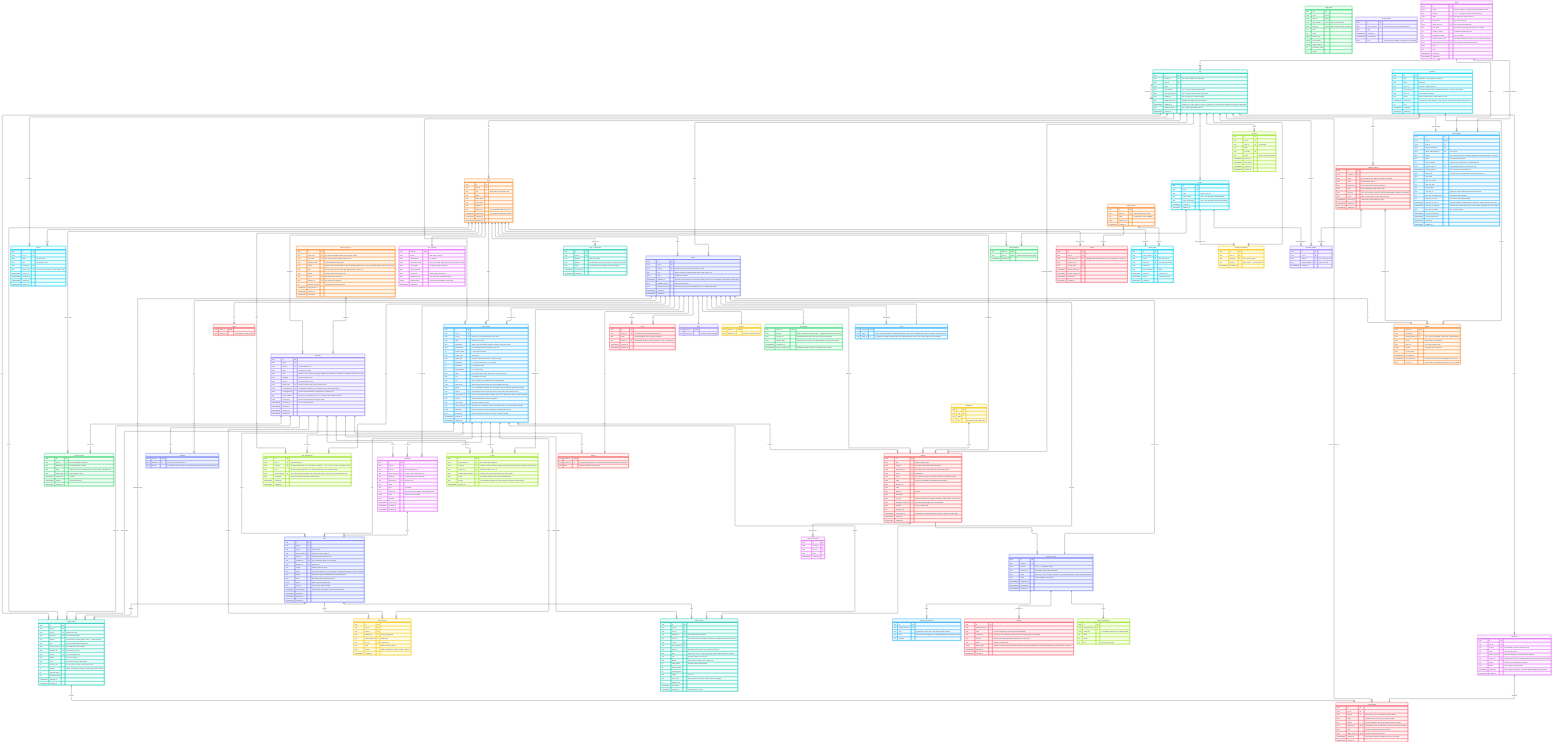
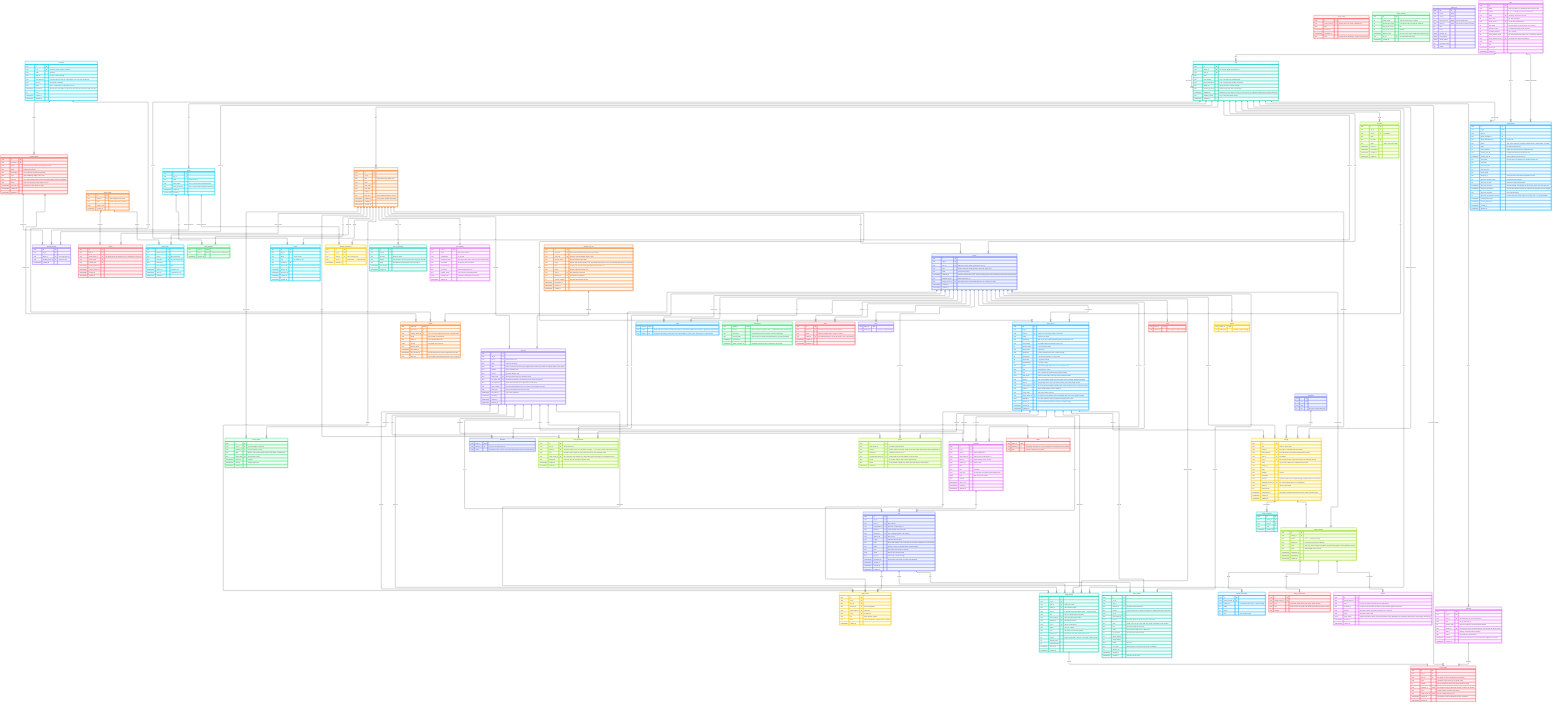
Billing in credits: one credit is $0.02 (above Pipedream's $0.012), top-ups turn into credits at the price that day, bought credits never expire, runs cost nothing, auto top-up's monthly cap is optional; first plan numbers (credits per seat, machines, extra machines); every number in the database (p

diff --git a/server/docs/architecture.md b/server/docs/architecture.md
@@ -247,7 +247,7 @@ Decided 2026-10-11. Two UIs, split by isolation:
 - **Models:** the catalog with provider logos, add a model with its key, whether the key works. A key is typed into a card or a page and posted straight from it to the API with a short-lived ticket; it never passes through a chat. Tested 2026-10-11 in Claude: the card's ticket rides in the tool result's `_meta`, which the model never sees, and the card posts from its own origin (`*.claudemcpcontent.com`).
 - **Billing** (org admins): the plan and changing it (preview, confirm, wait), the card on file (Stripe's own form), adding funds (one-off, $5 to $10,000), auto top-up, invoices (Stripe's portal).
 - **Members and invites** (org admins).
-- **Navigation** (decided 2026-10-11): the top nav is Machines, Super powers, Powers and Marketplace; **Org** for org admins (Members, Teams, Models, Connections, Review, Billing); **Glyphh admin** for super admins (Orgs, Models, Marketplace, Plans).
+- **Navigation** (decided 2026-10-11): the top nav is Machines, Super powers, Powers and Marketplace; **Org** for org admins (Members, Teams, Models, Connections, Review, Billing); **Glyphh admin** for super admins (Orgs, Models, Marketplace, Plans: each plan's versions and the billing settings).
 
 **rrotor's UI** stays on the machine: its app server serves Glyphh's live view and each super power's screens. The platform and the cards reach it through the relay. A live card in Claude draws its own view from a stream off the machine rather than framing rrotor's page (a page framed inside a card came up blank, tested 2026-10-11), or opens rrotor's UI in a tab.
 
@@ -399,7 +399,7 @@ erDiagram
         int price_cents "per seat, per month"
         text stripe_price_id UK "null for Free and Enterprise"
         int max_seats "the most seats an org may have; null = no limit"
-        int monthly_credits "included each billing period"
+        int monthly_credits "included each billing period, per seat"
         int included_machines "null = no limit"
         int extra_machine_cents "per extra machine per month; null = no extras on this plan"
         text stripe_machine_price_id UK "the Stripe price extras are billed on"
@@ -697,6 +697,7 @@ erDiagram
         timestamptz auto_top_up_last_at "the last attempt: one attempt per 10 minutes, taken under the org's lock"
         timestamptz auto_top_up_failed_at "the card was refused: auto top-up is off until an org admin turns it on again"
         text auto_top_up_failure "why, as Stripe said it"
+        int auto_top_up_monthly_cap_cents "the most auto top-up may charge in a period; null = no cap (the default)"
         timestamptz current_period_start
         timestamptz current_period_end
         timestamptz created_at
@@ -733,6 +734,17 @@ erDiagram
         int request_bytes
         int response_bytes
         timestamptz started_at
+        timestamptz created_at
+    }
+
+    billing_settings {
+        uuid id PK
+        int credit_cents "what one credit costs: 2 = $0.02"
+        int seconds_per_credit "a connection call's seconds per credit: 30"
+        int top_up_min_cents "500"
+        int top_up_max_cents "1000000"
+        timestamptz effective_from "the row in force is the newest one already started"
+        uuid set_by FK "the super admin who set it"
         timestamptz created_at
     }
 
@@ -1039,13 +1051,15 @@ Seats are billed as the old server billed them (his rule, 2026-09-18):
 
 The plans carried over from the old server:
 
-| Plan | Price per seat | Seats | Machines included | Extra machines |
-|---|---|---|---|---|
-| Free | $0 | 1 | 2 | none |
-| Solo | $20 | 1 | to set | to set |
-| Basic | $40 | 25 | to set | to set |
-| Pro | $150 | 100 | to set | to set |
-| Enterprise | arranged | no limit | no limit | n/a |
+| Plan | Price per seat | Seats | Credits each month | Machines included | Extra machine |
+|---|---|---|---|---|---|
+| Free | $0 | 1 | 100 | 2 | none |
+| Solo | $20 | 1 | 2,000 | 3 | $5 a month |
+| Basic | $40 | up to 25 | 2,500 per seat | 10 | $5 a month |
+| Pro | $150 | up to 100 | 10,000 per seat | 50 | $5 a month |
+| Enterprise | arranged | no limit | arranged | no limit | n/a |
+
+These are a first pick (2026-10-11), to adjust. **Every number lives in the database and a super admin changes it on Glyphh admin → Plans:** a plan's price, seats, credits, machines and Stripe prices (each change is the plan's next version, above), and the billing settings (`billing_settings`: the price of a credit, the seconds a credit buys, the smallest and largest top-up), each kept with who set it and from when.
 
 An org that already has its included machines plus its extras cannot register another: signing in from one more machine is refused with the reason (on Free: "Free includes 2 machines. Upgrade, or remove one."), and nothing is half registered.
 
@@ -1189,13 +1203,15 @@ What Pipedream charges Glyphh (Connect, Startup plan): $99 a month billed annual
 - **The cap is the tier.** When an org's credits run out, its connection calls stop until the next period, with a clear message; there is never a surprise bill. An org can upgrade, or add funds.
 - **subscriptions** tie an org to its Stripe customer and subscription, its plan, its status and its current period, as the old server did, plus what the old server lacked: a downgrade waiting for the period's end (`pending_plan_id`), and the card on file for display (brand, last four, expiry), kept current from Stripe's webhooks. Stripe keeps the card itself and the invoices; the invoice list is read from Stripe.
 - **credit_ledger** is the whole story of an org's credits, append only: each period's allowance, each top-up and grant, and each use. The balance is the sum of what has not expired, so it is never stored twice. A usage entry points at the call it paid for; a top-up entry at its payment, at most one entry per payment, so a webhook and a reconcile arriving together can never add the same money twice.
-- **Grants and comped plans** (super admins): a grant adds credits with a note; a comped plan is a plan with no charge (`status` comped).
+- **Grants and comped plans** (super admins): a grant (a gift) adds credits with a note; a comped plan is a plan with no charge (`status` comped).
 
 #### Adding funds, as the old server did
 
 - **One-off top-ups, no packs:** an org admin adds any amount from $5 to $10,000, in US dollars, through Stripe Checkout (Stripe's own page, embedded). The card is saved for auto top-up as it pays. A `payments` row is made when the Checkout starts (pending); Stripe's webhook settles it (succeeded or failed), and only a succeeded payment adds credits to the ledger. A reconcile from Stripe backs the webhook up.
 - **Auto top-up:** on, a threshold and an amount. When a connection call leaves the balance under the threshold, the server charges the card on file (a PaymentIntent, off session) for the amount. The attempt is taken under the org's row lock with a 10-minute gap, so two servers can never charge twice for one dip. A refused card switches auto top-up off, records why, and tells the org admins; it never retries a refused card in a loop. A payment Stripe confirms later (processing, then succeeded) still lands, from its webhook.
-- **How dollars become credits:** still to set (the price of a credit). Until then the plan's allowance and the top-ups are both counted in the same unit the ledger keeps.
+- **How dollars become credits** (decided 2026-10-11): Glyphh bills in credits. **One credit is $0.02**, above Pipedream's $0.012, and a top-up becomes credits at the price in force that day (`billing_settings`), so a $5 top-up is 250 credits. Bought credits never expire; a plan's monthly credits end with the period.
+- **Auto top-up has an optional monthly cap** an org admin sets (`auto_top_up_monthly_cap_cents`), off by default.
+- **Runs cost nothing:** they run on the member's own machine. Only connection calls spend credits.
 
 #### Changing plans, as the old server did
 
@@ -1287,7 +1303,7 @@ The sign-in screens on the design: tokens, Red Hat, the ported cat, the trace id
 ### Phases
 
 1. **Sign in from Claude and Codex.** Done.
-2. **Orgs and billing:** members, invites and seats are done; billing (plans, Stripe, top-ups, auto top-up) waits on the decisions under Open.
+2. **Orgs and billing:** members, invites and seats are done; billing (plans, Stripe, top-ups, auto top-up, credits) is next: its decisions are made.
 3. **Machines:** machine sign-in (approve a code), one-click hosting (Fly first), machine tokens, Redis for live state, deploy status.
 4. **rrotor:** the image, the app server and Glyphh's UI, the main assistant on its three loops, rrotor's MCP surface, launch tickets, the player.
 5. **Powers and super powers:** the catalog, models on the member's keys, grants, slots, tool permissions, the editor and its configuration, voice.
@@ -1307,8 +1323,6 @@ Everything open: decisions still to make, things to draw, work found but not sta
     - **A super power's own screens** (its app) on the machine's origin, or on one of their own (`<power>.<machine-id>.glyphh.ai`) so an app a member installed can't read rrotor's session.
     - **How long a machine's session lasts,** and how it learns a member was removed or a token revoked.
 
-- **Billing: dollars or credits**, and the monthly spend cap (a limit on auto top-ups, or none). Billing (phase 2b) waits on both.
-- **Plans:** price per credit and monthly credits per plan, pack sizes and prices, included and extra machines for Solo, Basic and Pro, whether runs themselves spend credits, whether Free is held to one connected service. The billing boards leave these as `[BRACKETS]`.
 - **Tasks are powers:** rename tasks to powers everywhere (proposed, not confirmed).
 - **"Also use my Claude or ChatGPT connectors":** a switch per super power, letting its loop use the member's own connectors beside Glyphh's (proposed, not decided).
 - **Conversations:** where they live. Proposal: the server keeps each conversation's record (title, super power, machine, run, status, times), rrotor keeps the messages, and rrotor's UI opens them through the relay.
@@ -1345,7 +1359,6 @@ Everything open: decisions still to make, things to draw, work found but not sta
 - **The design agent's requests** (`glyphh-ai/glyphh`, `design/DESIGN.md`, Requests): Pagination, SegmentedControl, a themed Stripe Payment Element, ConnectFrame, a bars-by-day chart, Menu radio items, DescriptionList, a person and an org avatar, PowerMap and FlowCanvas (the editors).
 - **The ui README** says rrotor's UI uses the library; rrotor gets a UI of its own.
 - **Light theme** for the admin boards, the publishing boards and rrotor's splash: the design agent draws them.
-- **Gifting funds:** credit grants exist; gifting in dollars or credits waits on "Billing: dollars or credits".
 - **Gaps from the admin and publishing boards** (2026-10-11; each drawn one way, to confirm):
     - **Members:** confirm dialogs for Change role and Disable aren't drawn; a disabled member is drawn as not using a seat (a seat is an active user); an invite's expiry is drawn as "[7] days".
     - **A member's "What you can add" view** (the union of their teams' lists inside the org's) is linked from Powers but not drawn.
